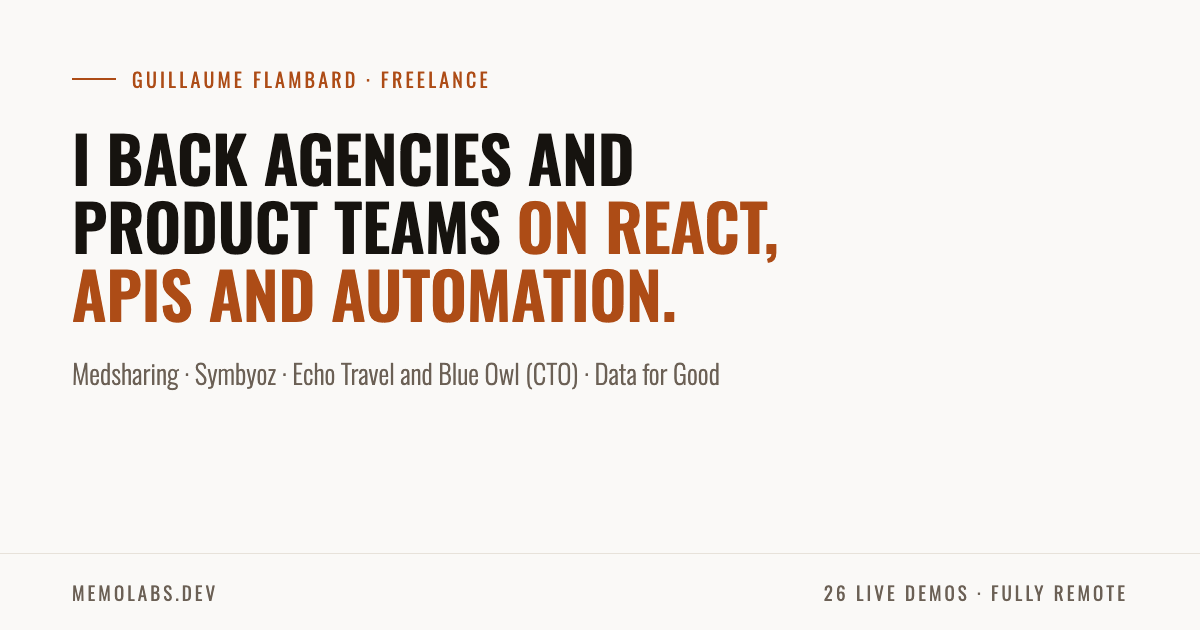
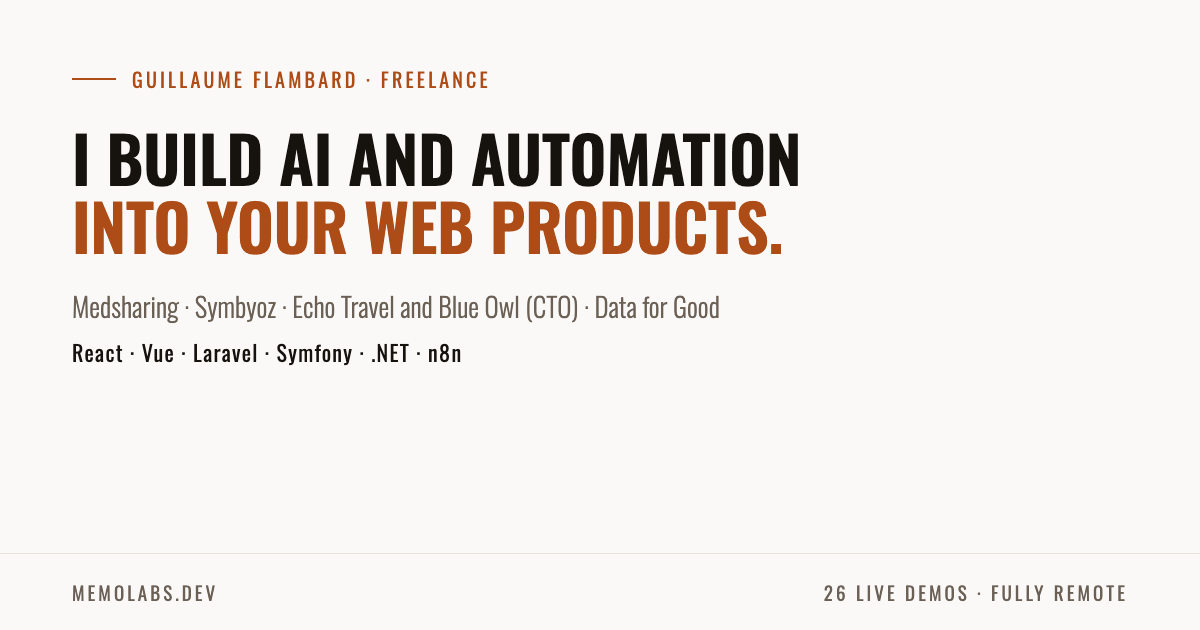
feat(home): lead with AI and automation, on whatever stack the client runs
The homepage said React, APIs and automation, which hid the PHP (Laravel,
Symfony), Vue, Bootstrap and .NET work and the AI focus. It now says
I build AI and automation into your web products, lists the stacks, and
orders the services AI, automation, then any-stack application work.
Share images, page titles and JSON-LD follow the same line.

Changed region(s): [[0.0617, 0.2111, 0.6783, 0.5127], [0.0617, 0.5429, 0.6167, 0.6333]]

diff --git a/src/app/[locale]/layout.tsx b/src/app/[locale]/layout.tsx
@@ -16,13 +16,13 @@ const oswald = Oswald({
 });
 
 export const metadata: Metadata = {
-  title: "Guillaume Flambard · React & TypeScript Developer",
+  title: "Guillaume Flambard · Full-stack developer, AI and automation",
   description:
-    "Guillaume Flambard is an independent React & TypeScript developer. Memo Labs is his practice for web interfaces, APIs, payments and integrations. Available for remote freelance work and open to remote roles.",
+    "Guillaume Flambard builds AI and automation into web products, on the stack teams already run: React, Vue, Laravel, Symfony, .NET. Available for remote freelance work and open to remote roles.",
   openGraph: {
-    title: "Guillaume Flambard · React & TypeScript Developer",
+    title: "Guillaume Flambard · Full-stack developer, AI and automation",
     description:
-      "Guillaume Flambard is an independent React & TypeScript developer. Memo Labs is his practice for web interfaces, APIs, payments and integrations. Available for remote freelance work and open to remote roles.",
+      "Guillaume Flambard builds AI and automation into web products, on the stack teams already run: React, Vue, Laravel, Symfony, .NET. Available for remote freelance work and open to remote roles.",
     url: "https://memolabs.dev",
     siteName: "Memo Labs",
     type: "website",
@@ -33,15 +33,15 @@ export const metadata: Metadata = {
         url: "https://memolabs.dev/og-fr.png",
         width: 1200,
         height: 630,
-        alt: "Guillaume Flambard · React & TypeScript Developer",
+        alt: "Guillaume Flambard · Full-stack developer, AI and automation",
       },
     ],
   },
   twitter: {
     card: "summary_large_image",
-    title: "Guillaume Flambard · React & TypeScript Developer",
+    title: "Guillaume Flambard · Full-stack developer, AI and automation",
     description:
-      "React & TypeScript engineering for business web applications. Guillaume Flambard is available for remote freelance work and remote roles.",
+      "AI and automation built into web products, on React, Vue, Laravel, Symfony or .NET. Guillaume Flambard is available for remote freelance work and remote roles.",
     images: ["https://memolabs.dev/og-fr.png"],
   },
 };
@@ -80,7 +80,7 @@ export default async function LocaleLayout({
                   name: "Memo Labs",
                   url: "https://memolabs.dev",
                   description:
-                    "Guillaume Flambard is an independent React & TypeScript developer. Memo Labs is his practice for web interfaces, APIs, payments and integrations. Available for remote freelance work and open to remote roles.",
+                    "Guillaume Flambard builds AI and automation into web products, on the stack teams already run: React, Vue, Laravel, Symfony, .NET. Available for remote freelance work and open to remote roles.",
                   sameAs: [
                     PUBLIC_LINKS.github,
                     "https://lab.memolabs.dev",
@@ -96,7 +96,7 @@ export default async function LocaleLayout({
                   "@id": "https://memolabs.dev/#person",
                   name: "Guillaume Flambard",
                   url: "https://memolabs.dev",
-                  jobTitle: "React & TypeScript Developer",
+                  jobTitle: "Full-stack developer, AI and automation",
                   worksFor: { "@id": "https://memolabs.dev/#org" },
                   sameAs: [
                     PUBLIC_LINKS.github,

diff --git a/src/app/[locale]/page.tsx b/src/app/[locale]/page.tsx
@@ -14,8 +14,8 @@ const DEMOS_URL = "https://demos.memolabs.dev/";
 export async function generateMetadata({ params }: { params: Promise<{ locale: string }> }): Promise<Metadata> {
   const { locale } = await params;
   const [title, description] = locale === "fr"
-    ? ["Guillaume Flambard · Développeur full-stack TypeScript freelance", "Je renforce agences et équipes produit sur React, les API et l’automatisation n8n, entièrement à distance. Parcours : Medsharing, Symbyoz, Echo Travel et Blue Owl (CTO), Data for Good. 26 démos en ligne."]
-    : ["Guillaume Flambard · Freelance full-stack TypeScript developer", "I back agencies and product teams on React, APIs and n8n automation, fully remote. Track record: Medsharing, Symbyoz, Echo Travel and Blue Owl (CTO), Data for Good. 26 live demos."];
+    ? ["Guillaume Flambard · Développeur full-stack, IA et automatisation", "J’intègre l’IA et l’automatisation dans vos produits web, sur votre stack : React, Vue, Laravel, Symfony, .NET. Parcours : Medsharing, Symbyoz, Echo Travel et Blue Owl (CTO), Data for Good. 26 démos en ligne."]
+    : ["Guillaume Flambard · Full-stack developer, AI and automation", "I build AI and automation into your web products, on your stack: React, Vue, Laravel, Symfony, .NET. Track record: Medsharing, Symbyoz, Echo Travel and Blue Owl (CTO), Data for Good. 26 live demos."];
   return createRouteMetadata(locale, "", title, description);
 }
 
@@ -71,19 +71,19 @@ export default async function Home({ params }: { params: Promise<{ locale: strin
               <span className="focus-number" aria-hidden="true">01</span>
               <h3>{t("service1Title")}</h3>
               <p>{t("service1Body")}</p>
-              <p className="focus-evidence"><Link href="/about#experience-medsharing">{t("service1Evidence")} <span aria-hidden="true">↗</span></Link></p>
+              <p className="focus-evidence"><Link href="/work/blueowl">{t("service1Evidence")} <span aria-hidden="true">↗</span></Link></p>
             </li>
             <li>
               <span className="focus-number" aria-hidden="true">02</span>
               <h3>{t("service2Title")}</h3>
               <p>{t("service2Body")}</p>
-              <p className="focus-evidence"><Link href="/work/echo-travel">{t("service2Evidence")} <span aria-hidden="true">↗</span></Link></p>
+              <p className="focus-evidence"><a href={DEMOS_URL}>{t("service2Evidence")} <span aria-hidden="true">↗</span></a></p>
             </li>
             <li>
               <span className="focus-number" aria-hidden="true">03</span>
               <h3>{t("service3Title")}</h3>
               <p>{t("service3Body")}</p>
-              <p className="focus-evidence"><a href={DEMOS_URL}>{t("service3Evidence")} <span aria-hidden="true">↗</span></a></p>
+              <p className="focus-evidence"><Link href="/work/echo-travel">{t("service3Evidence")} <span aria-hidden="true">↗</span></Link></p>
             </li>
           </ol>
         </div>

diff --git a/e2e/recruiter-journey.spec.ts b/e2e/recruiter-journey.spec.ts
@@ -150,7 +150,7 @@ for (const locale of locales) {
 
     test("identifies the engineer, service, experience and next step", async ({ page }) => {
       await page.goto(`/${locale}`);
-      const positioning = locale === "fr" ? "Je renforce agences et équipes produit" : "I back agencies and product teams";
+      const positioning = locale === "fr" ? "J’intègre l’IA et l’automatisation" : "I build AI and automation";
       await expect(page.getByRole("heading", { level: 1 })).toContainText(positioning);
       await expect(page.getByRole("heading", { level: 2, name: locale === "fr" ? "Ce que je construis maintenant" : "What I'm building now" })).toBeVisible();
       await expect(page.locator("#github-activity a[href=\"https://github.com/guillaume-flambard\"]")).toBeVisible();
@@ -334,11 +334,11 @@ for (const locale of locales) {
       await page.goto(`/${locale}`);
       const links = page.locator(".focus-evidence a");
       await expect(links).toHaveCount(3);
-      await expect(links.nth(0)).toHaveAttribute("href", `/${locale}/about#experience-medsharing`);
-      await expect(links.nth(1)).toHaveAttribute("href", `/${locale}/work/echo-travel`);
-      await expect(links.nth(2)).toHaveAttribute("href", "https://demos.memolabs.dev/");
-      await links.nth(1).click();
-      await expect(page).toHaveURL(new RegExp(`/${locale}/work/echo-travel$`));
+      await expect(links.nth(0)).toHaveAttribute("href", `/${locale}/work/blueowl`);
+      await expect(links.nth(1)).toHaveAttribute("href", "https://demos.memolabs.dev/");
+      await expect(links.nth(2)).toHaveAttribute("href", `/${locale}/work/echo-travel`);
+      await links.nth(0).click();
+      await expect(page).toHaveURL(new RegExp(`/${locale}/work/blueowl$`));
       await expect(page.locator(".case-snapshot")).toBeVisible();
     });
 
